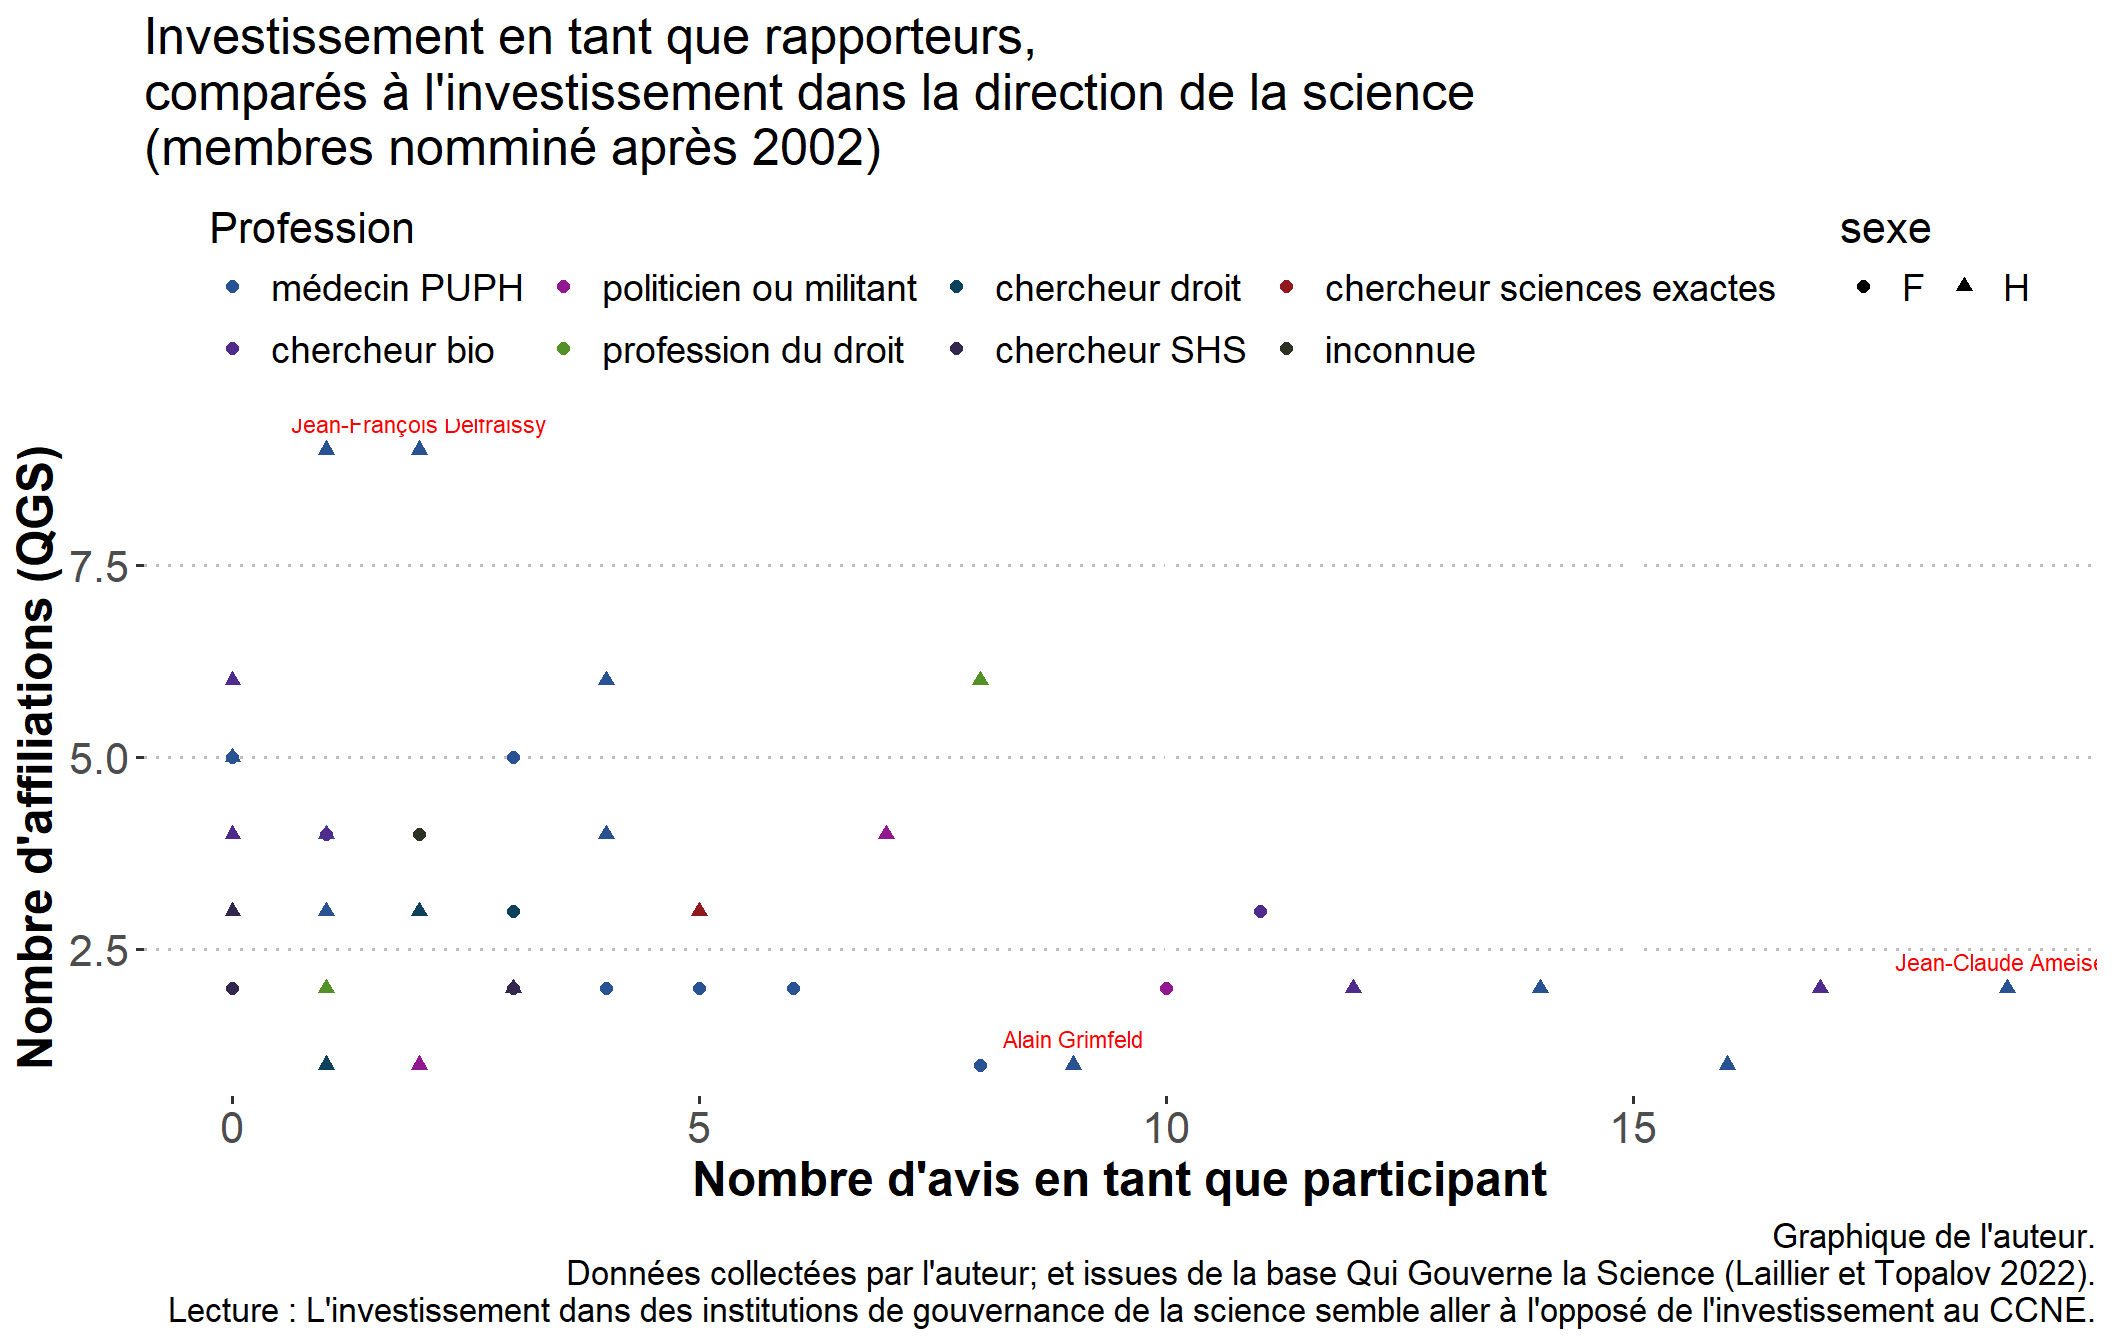
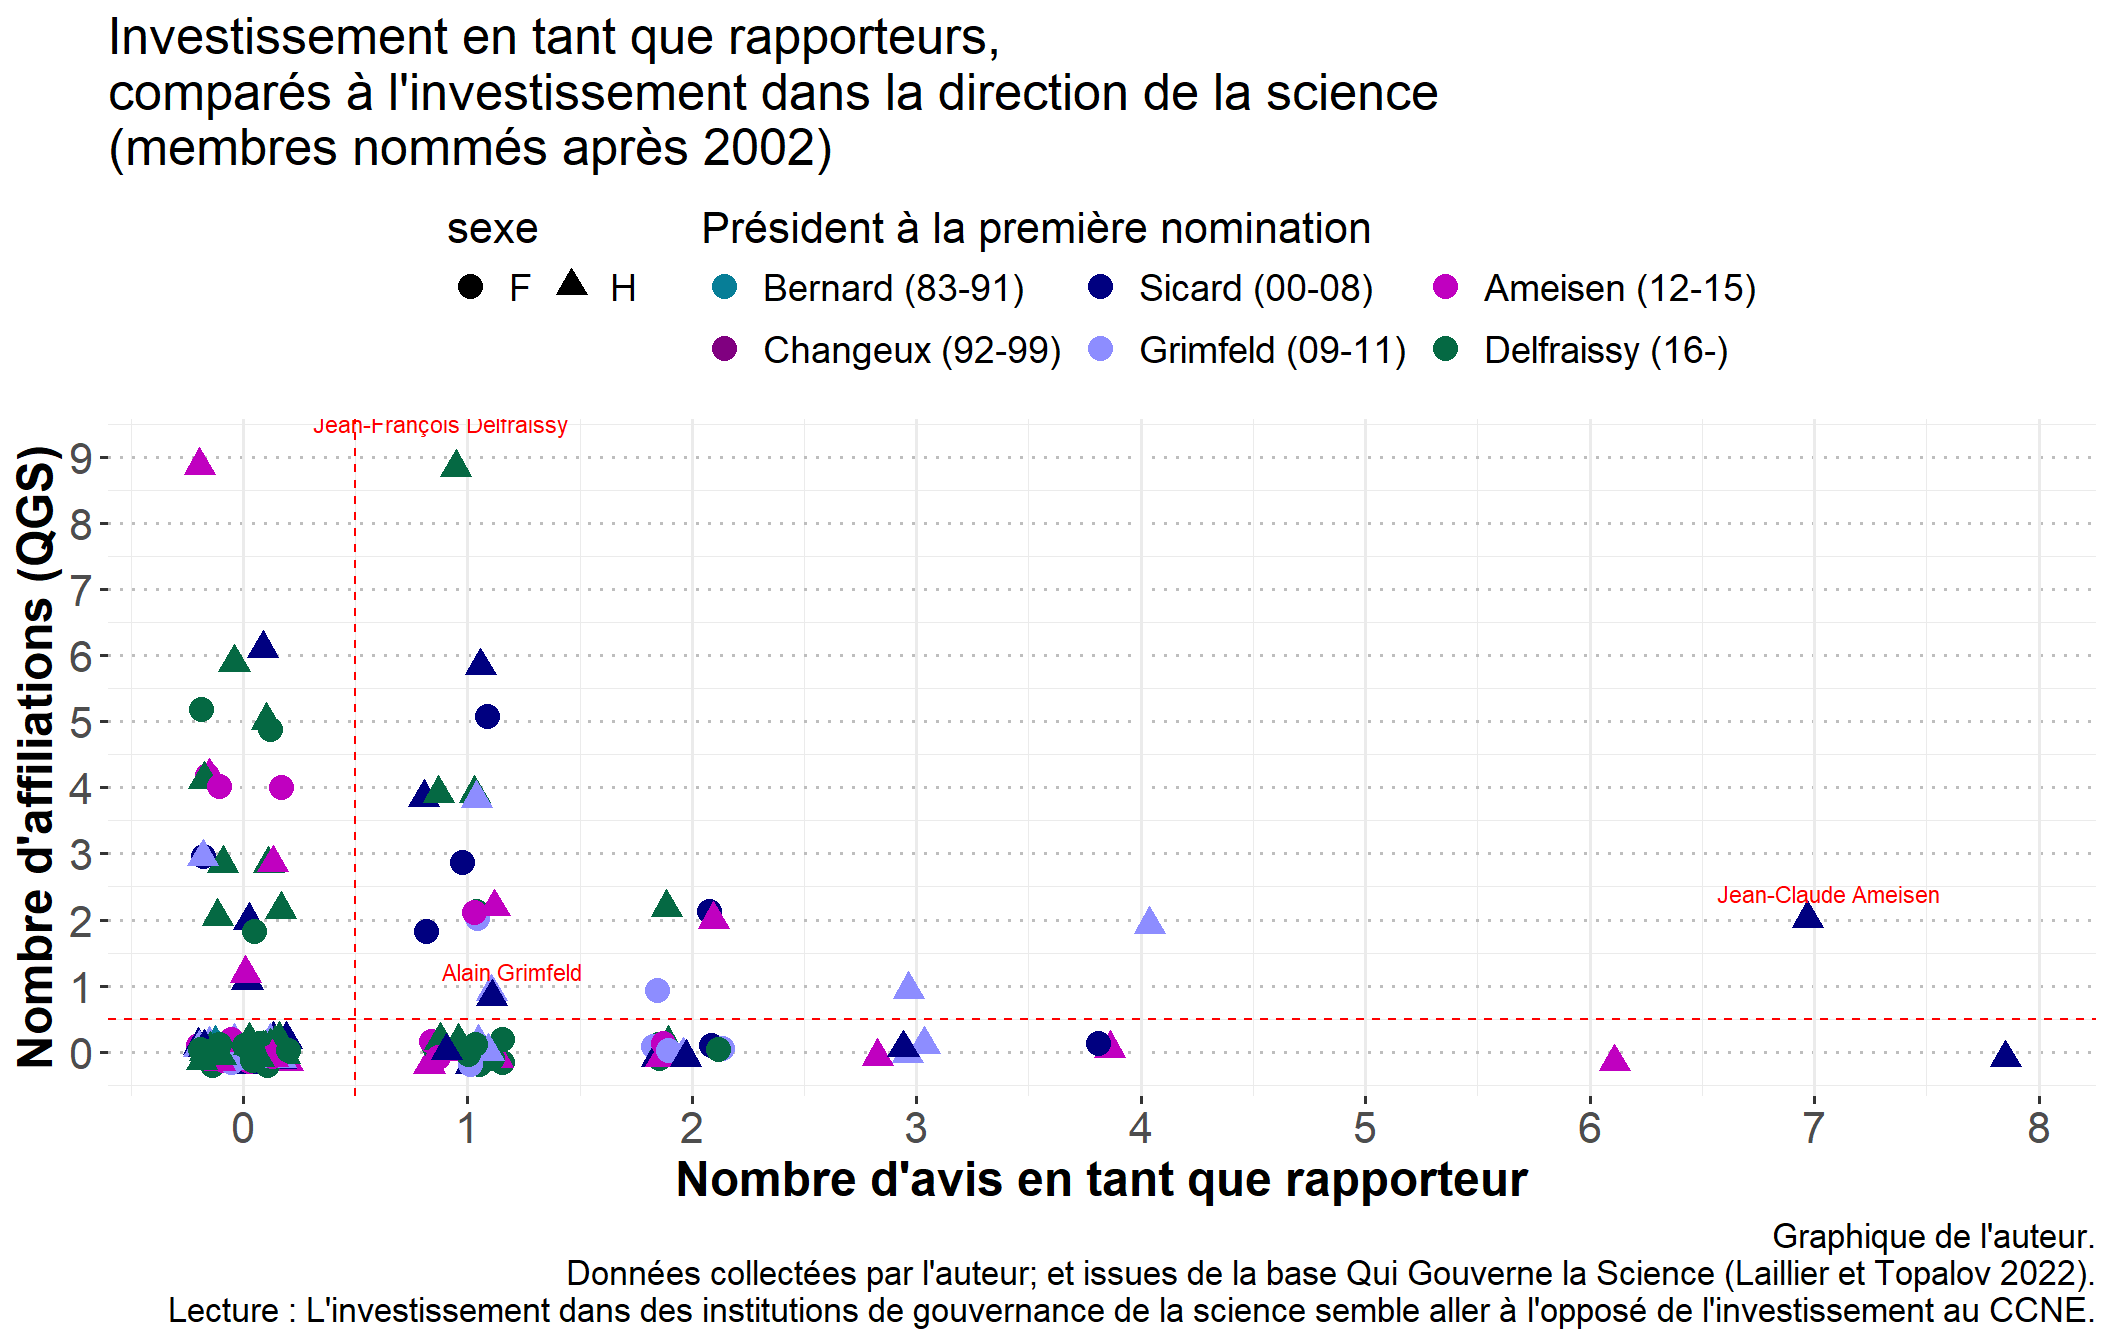
src: description_membres.qmd amelioration des graphes qmd

diff --git a/docs/description_membres.html b/docs/description_membres.html
@@ -70,7 +70,8 @@ ul.task-list li input[type="checkbox"] {
   <ul class="collapse">
   <li><a href="#histo-participation" id="toc-histo-participation" class="nav-link" data-scroll-target="#histo-participation"><span class="toc-section-number">4.1</span>  Histo participation</a></li>
   <li><a href="#histo-rapporteurs" id="toc-histo-rapporteurs" class="nav-link" data-scroll-target="#histo-rapporteurs"><span class="toc-section-number">4.2</span>  Histo rapporteurs</a></li>
-  <li><a href="#rapporteurs-selon-profession" id="toc-rapporteurs-selon-profession" class="nav-link" data-scroll-target="#rapporteurs-selon-profession"><span class="toc-section-number">4.3</span>  Rapporteurs selon profession</a></li>
+  <li><a href="#histo-membre-et-rapporteurs-ensemble" id="toc-histo-membre-et-rapporteurs-ensemble" class="nav-link" data-scroll-target="#histo-membre-et-rapporteurs-ensemble"><span class="toc-section-number">4.3</span>  Histo membre et rapporteurs ensemble</a></li>
+  <li><a href="#rapporteurs-selon-profession" id="toc-rapporteurs-selon-profession" class="nav-link" data-scroll-target="#rapporteurs-selon-profession"><span class="toc-section-number">4.4</span>  Rapporteurs selon profession</a></li>
   </ul></li>
   <li><a href="#composition-des-rapporteurs-par-avis" id="toc-composition-des-rapporteurs-par-avis" class="nav-link" data-scroll-target="#composition-des-rapporteurs-par-avis"><span class="toc-section-number">5</span>  Composition des rapporteurs par avis</a></li>
   <li><a href="#multinominés" id="toc-multinominés" class="nav-link" data-scroll-target="#multinominés"><span class="toc-section-number">6</span>  Multinominés</a></li>
@@ -208,23 +209,31 @@ ul.task-list li input[type="checkbox"] {
 <h2 data-number="4.2" class="anchored" data-anchor-id="histo-rapporteurs"><span class="header-section-number">4.2</span> Histo rapporteurs</h2>
 <div class="cell">
 <div class="cell-output-display">
-<p><img src="description_membres_files/figure-html/unnamed-chunk-9-1.png" class="img-fluid" width="1152"></p>
+<p><img src="description_membres_files/figure-html/unnamed-chunk-9-1.png" class="img-fluid" width="672"></p>
+</div>
+</div>
+</section>
+<section id="histo-membre-et-rapporteurs-ensemble" class="level2" data-number="4.3">
+<h2 data-number="4.3" class="anchored" data-anchor-id="histo-membre-et-rapporteurs-ensemble"><span class="header-section-number">4.3</span> Histo membre et rapporteurs ensemble</h2>
+<div class="cell">
+<div class="cell-output-display">
+<p><img src="description_membres_files/figure-html/unnamed-chunk-10-1.png" class="img-fluid" width="1152"></p>
 </div>
 </div>
 <div class="cell">
 
 </div>
 </section>
-<section id="rapporteurs-selon-profession" class="level2" data-number="4.3">
-<h2 data-number="4.3" class="anchored" data-anchor-id="rapporteurs-selon-profession"><span class="header-section-number">4.3</span> Rapporteurs selon profession</h2>
-<div class="cell">
-<div class="cell-output-display">
-<p><img src="description_membres_files/figure-html/unnamed-chunk-11-1.png" class="img-fluid" width="1152"></p>
-</div>
-</div>
+<section id="rapporteurs-selon-profession" class="level2" data-number="4.4">
+<h2 data-number="4.4" class="anchored" data-anchor-id="rapporteurs-selon-profession"><span class="header-section-number">4.4</span> Rapporteurs selon profession</h2>
 <div class="cell">
 <div class="cell-output-display">
 <p><img src="description_membres_files/figure-html/unnamed-chunk-12-1.png" class="img-fluid" width="1152"></p>
+</div>
+</div>
+<div class="cell">
+<div class="cell-output-display">
+<p><img src="description_membres_files/figure-html/unnamed-chunk-13-1.png" class="img-fluid" width="1152"></p>
 </div>
 </div>
 </section>
@@ -233,7 +242,7 @@ ul.task-list li input[type="checkbox"] {
 <h1 data-number="5"><span class="header-section-number">5</span> Composition des rapporteurs par avis</h1>
 <div class="cell">
 <div class="cell-output-display">
-<p><img src="description_membres_files/figure-html/unnamed-chunk-13-1.png" class="img-fluid" width="2880"></p>
+<p><img src="description_membres_files/figure-html/unnamed-chunk-14-1.png" class="img-fluid" width="2880"></p>
 </div>
 </div>
 </section>
@@ -241,7 +250,7 @@ ul.task-list li input[type="checkbox"] {
 <h1 data-number="6"><span class="header-section-number">6</span> Multinominés</h1>
 <div class="cell">
 <div class="cell-output-display">
-<p><img src="description_membres_files/figure-html/unnamed-chunk-14-1.png" class="img-fluid" width="1152"></p>
+<p><img src="description_membres_files/figure-html/unnamed-chunk-15-1.png" class="img-fluid" width="1152"></p>
 </div>
 </div>
 </section>
@@ -258,12 +267,22 @@ ul.task-list li input[type="checkbox"] {
 </div>
 <div class="cell">
 <div class="cell-output-display">
-<p><img src="description_membres_files/figure-html/unnamed-chunk-18-1.png" class="img-fluid" width="1056"></p>
+<p><img src="description_membres_files/figure-html/unnamed-chunk-19-1.png" class="img-fluid" width="1056"></p>
 </div>
 </div>
 <div class="cell">
 <div class="cell-output-display">
-<p><img src="description_membres_files/figure-html/unnamed-chunk-19-1.png" class="img-fluid" width="1056"></p>
+<p><img src="description_membres_files/figure-html/unnamed-chunk-20-1.png" class="img-fluid" width="1056"></p>
+</div>
+</div>
+<div class="cell">
+<div class="cell-output-display">
+<p><img src="description_membres_files/figure-html/unnamed-chunk-21-1.png" class="img-fluid" width="1056"></p>
+</div>
+</div>
+<div class="cell">
+<div class="cell-output-display">
+<p><img src="description_membres_files/figure-html/unnamed-chunk-22-1.png" class="img-fluid" width="1152"></p>
 </div>
 </div>
 </section>
